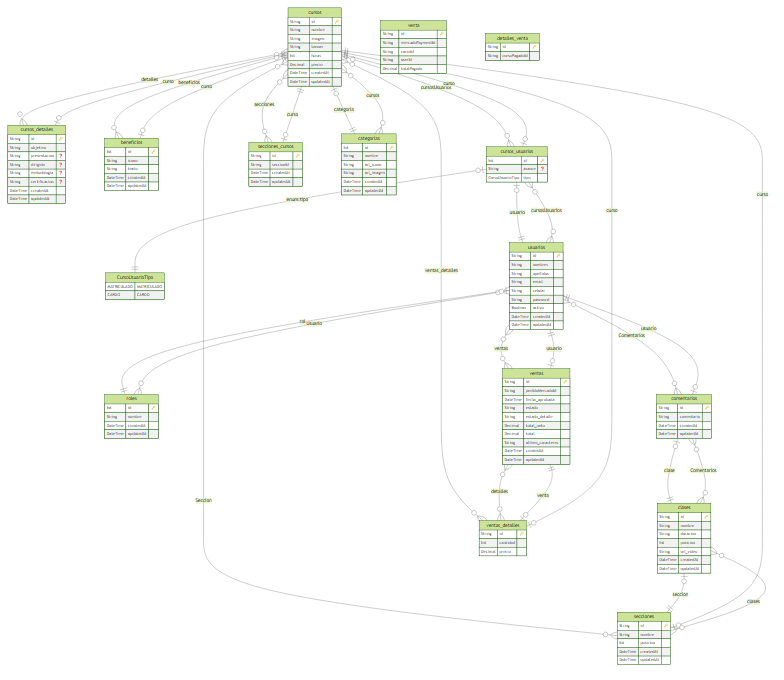
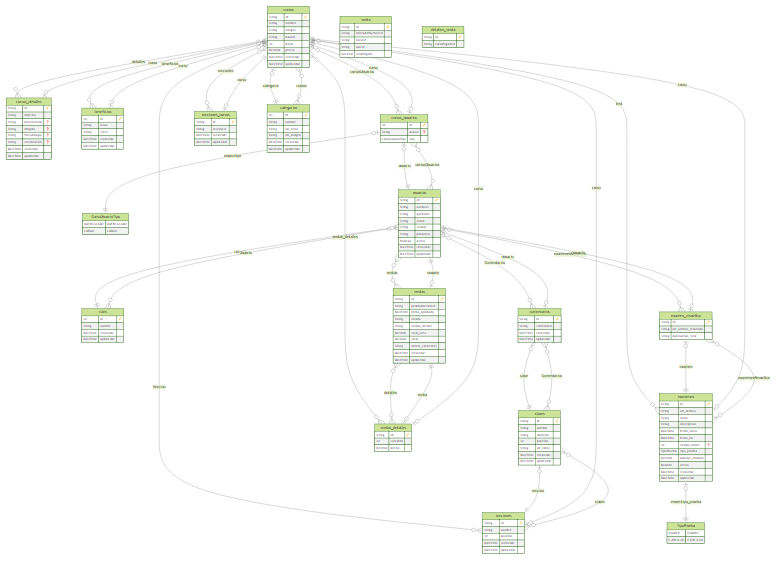
d

diff --git a/backend/src/controllers/test.controller.ts b/backend/src/controllers/test.controller.ts
@@ -1,0 +1,131 @@
+import { PrismaClient } from "@prisma/client";
+import { Request, Response } from "express";
+import { TestBody } from "interfaces/Test.interface";
+import multer from "multer";
+import path from "node:path";
+import fs from "fs";
+
+const prisma = new PrismaClient();
+
+const storage = multer.diskStorage({
+  destination: function (req, file, cb) {
+    let folder = "public/";
+    if (file.fieldname === "archivo") {
+      if (req.body.tipo_prueba === "EXAMEN") {
+        folder = folder + "curso/examen";
+        if (!fs.existsSync(folder)) {
+          fs.mkdirSync(folder, { recursive: true });
+        }
+        cb(null, folder);
+      } else if (req.body.tipo_prueba === "EJERCICIOS") {
+        folder = folder + "curso/ejercicio";
+        if (!fs.existsSync(folder)) {
+          fs.mkdirSync(folder, { recursive: true }); 
+        }
+        cb(null, folder);
+      } else {
+        throw new Error("Error");
+      }
+    }
+  },
+  filename: function (req, file, cb) {
+    const uniqueSuffix = Date.now() + "-" + Math.round(Math.random() * 1e9);
+    const fileExtension = path.extname(file.originalname);
+    cb(null, file.fieldname + "-" + uniqueSuffix + fileExtension);
+  },
+});
+
+const uploadArchivo = multer({
+  storage: storage,
+  limits: {
+    files: 1,
+  },
+  fileFilter: function (req, file, cb) {
+    // Filtro para aceptar solo ciertos tipos de archivos (imágenes en este ejemplo)
+    const filetypes = /doc|docx|pdf/;
+    const mimetype = filetypes.test(file.mimetype);
+    const extname = filetypes.test(
+      path.extname(file.originalname).toLowerCase()
+    );
+
+    if (mimetype && extname) {
+      return cb(null, true);
+    }
+    cb(null, false);
+  },
+});
+
+export const uploadArchivoTest = uploadArchivo.single("archivo");
+
+export async function showAllTests(req: Request, res: Response) {
+  try {
+    const tests = await prisma.test.findMany({
+      include: {
+        curso: true,
+      },
+    });
+    res.status(200).json({ tests });
+  } catch (e) {
+    console.error(e);
+    res.status(500).json({ message: "Error interno al obtener los tests" });
+    return;
+  }
+}
+
+export async function createTest(req: Request, res: Response) {
+  const {
+    titulo,
+    descripcion,
+    cursoId,
+    activo,
+    fecha_fin,
+    fecha_inicio,
+    puntaje_maxima,
+    tipo_prueba,
+    tiempo_limite,
+  } = req.body as TestBody;
+  if (
+    !titulo ||
+    !descripcion ||
+    !cursoId ||
+    !activo ||
+    !fecha_fin ||
+    !fecha_inicio ||
+    !puntaje_maxima ||
+    !tipo_prueba ||
+    !titulo ||
+    !tiempo_limite
+  ) {
+    res.status(400).json({ message: "Faltan datos para crear el examen" });
+    return;
+  }
+
+  const nombreArchivo = req.file?.filename;
+  const rutaArchivo = req.file?.path;
+  console.log(nombreArchivo);
+  console.log(rutaArchivo);
+  try {
+    const nuevoTest = await prisma.test.create({
+      data: {
+        url_archivo: nombreArchivo ?? "",
+        titulo: titulo,
+        descripcion: descripcion,
+        cursoId: cursoId,
+        fecha_inicio: fecha_inicio,
+        fecha_fin: fecha_fin,
+        puntaje_maxima: puntaje_maxima,
+        activo: activo,
+        tipo_prueba: tipo_prueba,
+        tiempo_limite: tiempo_limite,
+      },
+    });
+
+    res
+      .status(201)
+      .json({ message: "Examen creado con éxito", test: nuevoTest });
+  } catch (e) {
+    console.error(e);
+    res.status(500).json({ message: "Error interno al crear el examen" });
+    return;
+  }
+}

diff --git a/backend/src/routes/auth.routes.ts b/backend/src/routes/auth.routes.ts
@@ -12,12 +12,14 @@ import { actualizarAlumno, crearAlumno, deleteAlumno, obtenerAlumnoPorId, showAl
 import { enviarVenta, obtenerVentas, recibirVenta } from "../controllers/mercadopago.controller";
 import { actualizarSeccion, createSeccion, deleteSeccion, obtenerSecciones, obtenerSeccionesCurso, obtenerSeccionPorId, showAllSecciones } from "../controllers/seccion.controller";
 import { actualizarClase, createClase, deleteClase, obtenerClasePorId, obtenerClases, showAllClases } from "../controllers/clase.controller";
+import { createTest, showAllTests, uploadArchivoTest } from "../controllers/test.controller";
 // import { CategoriaSchema } from "../schemas/categoria.schema";
 
 const router = Router();
 
 router.post('/crearAdmin', validateSchema(registerSchema), crearAdmin)
 
+{/** Usuarios | Profesores | Administradores */  }
 router.post("/register", validateSchema(registerSchema), register);
 router.post("/login", validateSchema(loginSchema), login);
 router.post("/logout", logout);
@@ -57,10 +59,12 @@ router.get('/alumnos/:id', verifyAdmin, obtenerAlumnoPorId)
 router.post('/alumnos/:id', validateSchema(registerSchema), verifyAdmin, actualizarAlumno)
 router.post('/borrarAlumno/:id', verifyAdmin, deleteAlumno)
 
+{/** Mercado */  }
 router.post('/mercado', enviarVenta)
 router.post('/mercado/webhook', recibirVenta)
 router.get('/mercado', verifyAdminOrProfesor, obtenerVentas)
 
+{/** Secciones */  }
 router.get('/secciones', verifyAdminOrProfesor, showAllSecciones)
 router.post('/secciones', verifyAdminOrProfesor, createSeccion)
 router.get('/secciones/:id', verifyAdminOrProfesor, obtenerSeccionPorId)
@@ -69,11 +73,16 @@ router.post('/borrarSeccion/:id', verifyAdminOrProfesor, deleteSeccion)
 router.get('/seccionesBuscar/:nombre', verifyAdminOrProfesor, obtenerSecciones)
 router.get('/seccionesCurso/:id', verifyAdminOrProfesor, obtenerSeccionesCurso)
 
+{/** Clases */ }
 router.get('/clases', verifyAdminOrProfesor, showAllClases)
 router.post('/clases', verifyAdminOrProfesor, createClase)
 router.get('/clases/:id', verifyAdminOrProfesor, obtenerClasePorId)
 router.post('/clases/:id', verifyAdminOrProfesor, actualizarClase)
 router.post('/borrarClase/:id', verifyAdminOrProfesor, deleteClase)
 router.get('/clasesBuscar/:nombre', verifyAdminOrProfesor, obtenerClases)
+
+{/** Test */  }
+router.post('/tests', uploadArchivoTest, createTest)
+router.get('/tests', showAllTests)
 
 export default router;

diff --git a/aula_virtual/app/page.tsx b/aula_virtual/app/page.tsx
@@ -225,7 +225,7 @@ const Home = (): JSX.Element => {
                         <div className="absolute inset-0 m-auto rounded-xl w-[200px] h-[180px] group-hover:w-full group-hover:h-full flex items-center justify-center px-8 py-10 bg-black-main bg-opacity-70 transition-all duration-300">
                           <div className="text-center text-white">
                             <span className="flex justify-center p-4 mx-auto mb-2 text-3xl bg-transparent rounded-full w-fit h-fit text-secondary-main group-hover:bg-white-main">
-                              <Image
+                              <img
                                 src={`${config.imagesUrl}${cat.url_icono}`}
                                 width={30}
                                 height={30}

diff --git a/backend/src/interfaces/Test.interface.ts b/backend/src/interfaces/Test.interface.ts
@@ -1,0 +1,37 @@
+import { Curso, TestResuelto } from "@prisma/client"
+
+export interface Test {
+  id: string
+  titulo: string
+  descripcion: string
+  cursoId: string
+  url_archivo: string
+  fecha_inicio: Date
+  fecha_fin: Date
+  tiempo_limite?: number
+  tipo_prueba: TipoPrueba
+  puntaje_maxima: number
+  activo: boolean
+  createdAt: Date
+  updatedAt: Date
+
+  curso?: Curso
+  examenesResueltos?: TestResuelto[]
+}
+
+enum TipoPrueba {
+  EXAMEN = 'EXAMEN',
+  EJERCICIOS = 'EJERCICIOS'
+}
+
+export interface TestBody {
+  titulo: string
+  descripcion: string
+  cursoId: string
+  fecha_inicio: Date
+  fecha_fin: Date
+  tiempo_limite?: number
+  tipo_prueba: TipoPrueba
+  puntaje_maxima: number
+  activo?: boolean
+}

diff --git a/backend/src/controllers/curso.controller.ts b/backend/src/controllers/curso.controller.ts
@@ -24,10 +24,10 @@ const storage = multer.diskStorage({
 });
 
 const upload = multer({
-  storage: storage, // Usamos memoryStorage en lugar de diskStorage
+  storage: storage,
   limits: {
     fileSize: 1024 * 1024 * 5, // Límite de tamaño de archivo: 5MB
-    files: 2, // Límite de número de archivos subidos por campo (por ejemplo, máximo 2 imágenes 'imagen')
+    files: 1, // Límite de número de archivos subidos por campo (por ejemplo, máximo 2 imágenes 'imagen')
     fields: 10, // Límite de campos no-archivo (campos de texto)
     fieldSize: 1024 * 100, // Tamaño máximo de un campo no-archivo (100KB)
     parts: 15, // Límite total de partes (archivos + campos) en la petición

diff --git a/aula_virtual/components/public/curso/CardCurso.tsx b/aula_virtual/components/public/curso/CardCurso.tsx
@@ -1,7 +1,7 @@
+/* eslint-disable @next/next/no-img-element */
 "use client";
 import { formatUrl } from "@/logic/formateador";
 import { useCarrito } from "@/store/useCarrito";
-import Image from "next/image";
 import Link from "next/link";
 import { JSX, useEffect, useState } from "react";
 import { toast } from "sonner";
@@ -91,7 +91,7 @@ const CardCurso = ({
         href={`/curso/${formatUrl(titulo)}`}
         className="relative overflow-hidden "
       >
-        <Image
+        <img
           src={img}
           alt=""
           width={700}
